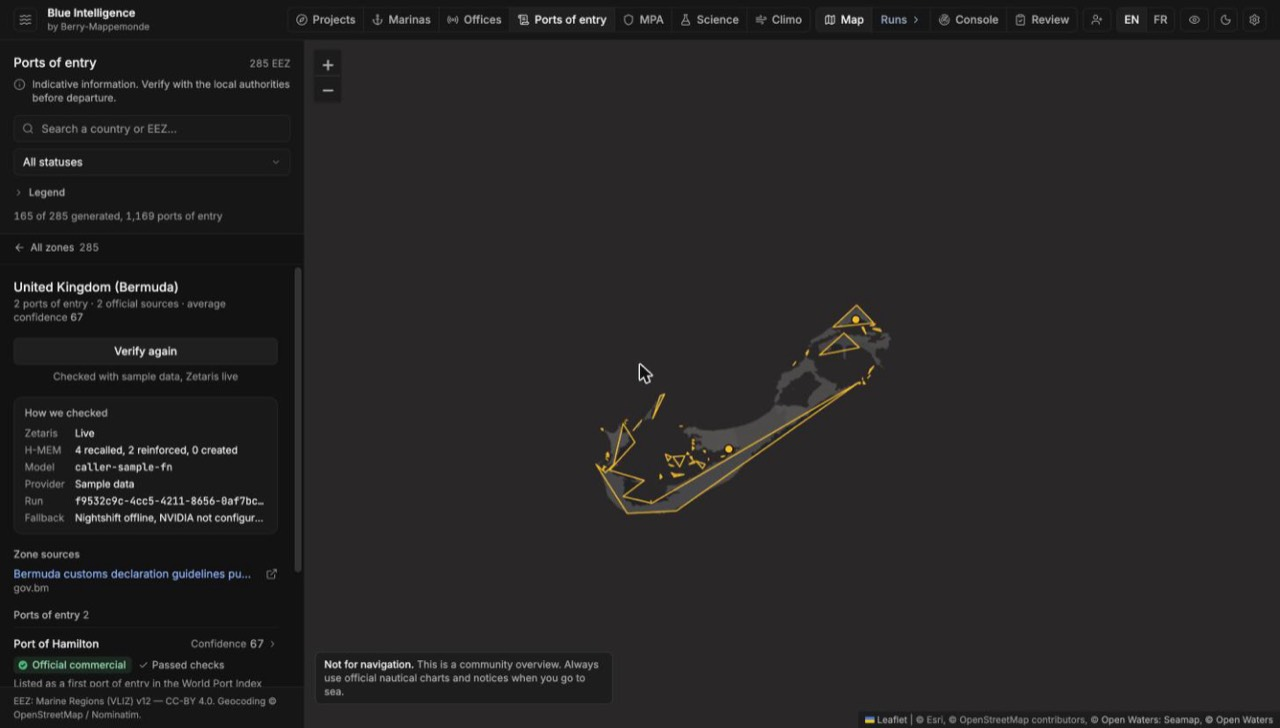
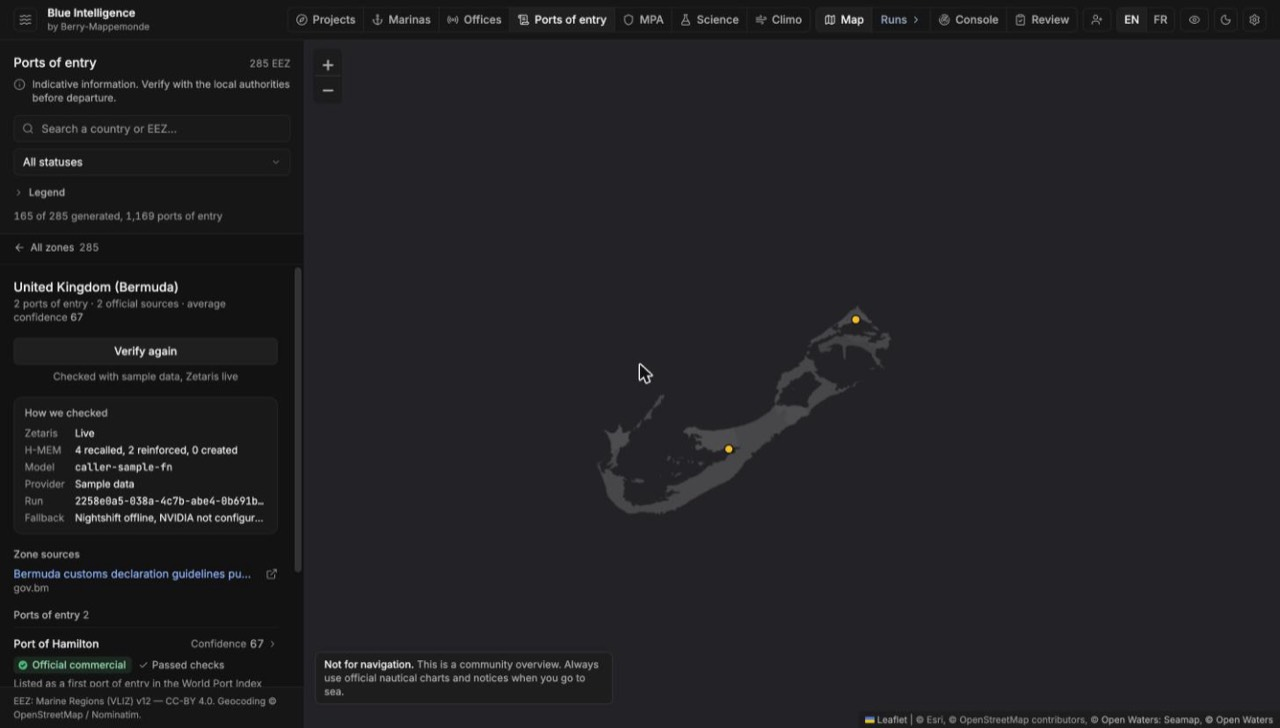
Hide the selected EEZ outline above zoom 9
Framed on its ports the outline only traced the coastline; it comes back
when the user zooms out to 9 or below.

diff --git a/frontend/src/components/map/useFormalitiesLayers.js b/frontend/src/components/map/useFormalitiesLayers.js
@@ -61,7 +61,7 @@ export default function useFormalitiesLayers({
       layer.eachLayer((lyr) => {
         const mrgid = lyr.feature?.properties?.mrgid;
         const selected = selectedZoneRef?.current != null && Number(selectedZoneRef.current) === Number(mrgid);
-        try { lyr.setStyle(zoneStyle(byMrgid.get(mrgid)?.status, selected)); } catch (_) { /* noop */ }
+        try { lyr.setStyle(zoneStyle(byMrgid.get(mrgid)?.status, selected, mapObj.current?.getZoom())); } catch (_) { /* noop */ }
       });
     }
     const map = mapObj.current;
@@ -72,18 +72,26 @@ export default function useFormalitiesLayers({
     // eslint-disable-next-line
   }, [poeZones]);
 
-  // Only the selected polygon is amber; the previous one goes back to neutral.
+  // Only the selected polygon is amber; the previous one goes back to neutral. Above
+  // ZONE_SELECTED_MAX_ZOOM the selected outline is hidden, so re-apply on every zoom.
   useEffect(() => {
     const layer = eezLayerRef.current;
-    if (!layer) return;
-    layer.eachLayer((lyr) => {
-      const mrgid = lyr.feature?.properties?.mrgid;
-      const selected = selectedZone != null && Number(selectedZone) === Number(mrgid);
-      try {
-        lyr.setStyle(zoneStyle(zoneItemsRef.current.get(mrgid)?.status, selected));
-        if (selected && typeof lyr.bringToFront === "function") lyr.bringToFront();
-      } catch (_) { /* noop */ }
-    });
+    const map = mapObj.current;
+    if (!layer) return undefined;
+    const apply = () => {
+      const zoom = map ? map.getZoom() : null;
+      layer.eachLayer((lyr) => {
+        const mrgid = lyr.feature?.properties?.mrgid;
+        const selected = selectedZone != null && Number(selectedZone) === Number(mrgid);
+        try {
+          lyr.setStyle(zoneStyle(zoneItemsRef.current.get(mrgid)?.status, selected, zoom));
+          if (selected && typeof lyr.bringToFront === "function") lyr.bringToFront();
+        } catch (_) { /* noop */ }
+      });
+    };
+    apply();
+    if (map) map.on("zoomend", apply);
+    return () => { if (map) map.off("zoomend", apply); };
     // eslint-disable-next-line
   }, [selectedZone]);
 

diff --git a/frontend/src/components/MapView.js b/frontend/src/components/MapView.js
@@ -201,10 +201,11 @@ export default function MapView({
             cb(mrgid, zoneName, Array.isArray(z?.bbox) && z.bbox.length === 4 ? z.bbox : null, z?.anchor || null);
           }
         });
-        lyr.on("mouseover", () => { try { lyr.setStyle({ weight: 2, opacity: 0.95 }); } catch (_) {} });
+        const isSelected = () => selectedZoneRef.current != null && Number(selectedZoneRef.current) === Number(mrgid);
+        const hiddenSelected = () => isSelected() && zoneStyle(null, true, map.getZoom()).opacity === 0;
+        lyr.on("mouseover", () => { if (hiddenSelected()) return; try { lyr.setStyle({ weight: 2, opacity: 0.95 }); } catch (_) {} });
         lyr.on("mouseout", () => {
-          const selected = selectedZoneRef.current != null && Number(selectedZoneRef.current) === Number(mrgid);
-          try { lyr.setStyle(zoneStyle(zoneItemsRef.current.get(mrgid)?.status, selected)); } catch (_) {}
+          try { lyr.setStyle(zoneStyle(zoneItemsRef.current.get(mrgid)?.status, isSelected(), map.getZoom())); } catch (_) {}
         });
       },
     });

diff --git a/frontend/src/components/map/constants.js b/frontend/src/components/map/constants.js
@@ -45,8 +45,14 @@ export const ZONE_SELECTED_COLOR = "#fbbf24";
 export const ZONE_NEUTRAL_LINE = "#5e5e5e";
 export const ZONE_NEUTRAL_FILL = "#8f8f8f";
 export const ZONE_ERROR_COLOR = "#eb5a5a";
-export const zoneStyle = (status, selected = false) => {
+// Above this zoom the selected zone is framed on its ports: the outline would only
+// trace the coastline, so it is hidden (outline and fill) until the user zooms out.
+export const ZONE_SELECTED_MAX_ZOOM = 9;
+export const zoneStyle = (status, selected = false, zoom = null) => {
   const s = status || "non_generee";
+  if (selected && zoom != null && zoom > ZONE_SELECTED_MAX_ZOOM) {
+    return { color: ZONE_SELECTED_COLOR, weight: 1.5, opacity: 0, fillColor: ZONE_SELECTED_COLOR, fillOpacity: 0, dashArray: null };
+  }
   if (selected) {
     return { color: ZONE_SELECTED_COLOR, weight: 1.5, opacity: 0.95, fillColor: ZONE_SELECTED_COLOR, fillOpacity: 0.03, dashArray: null };
   }
